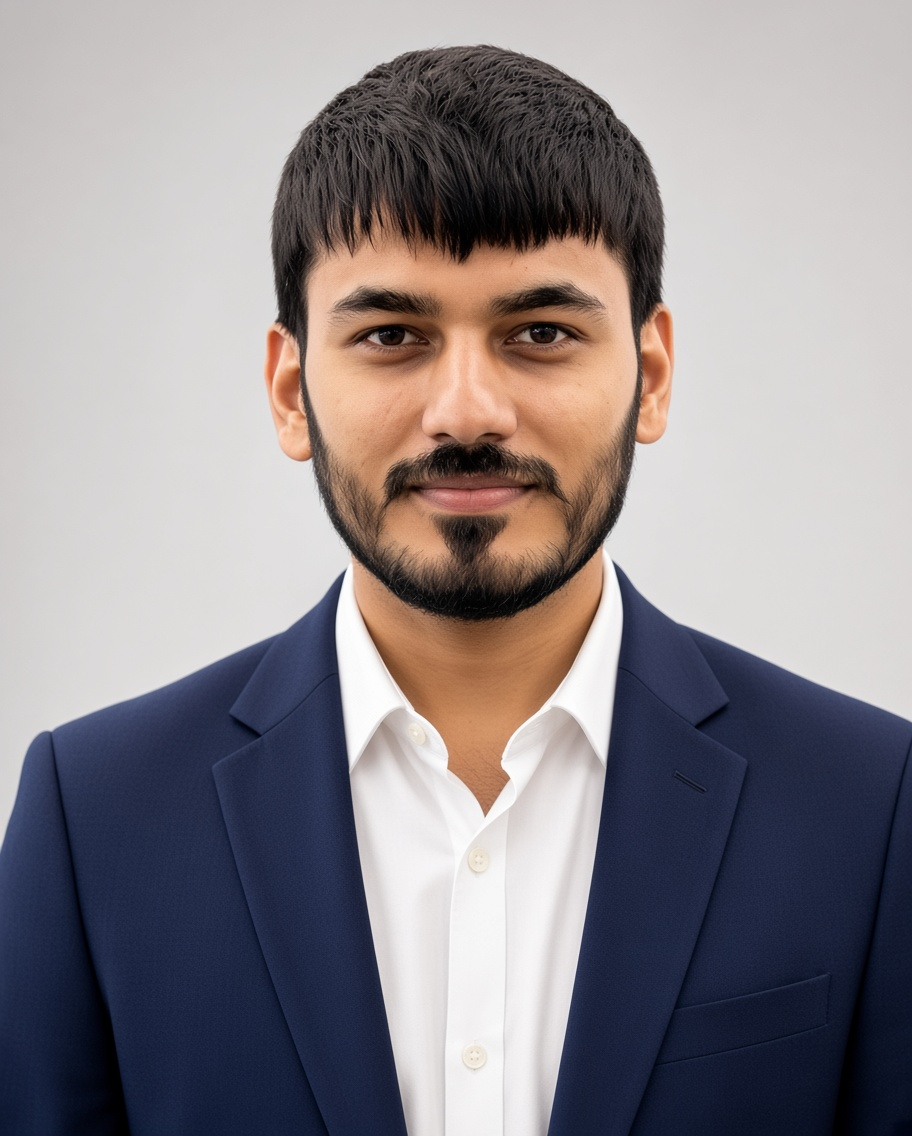
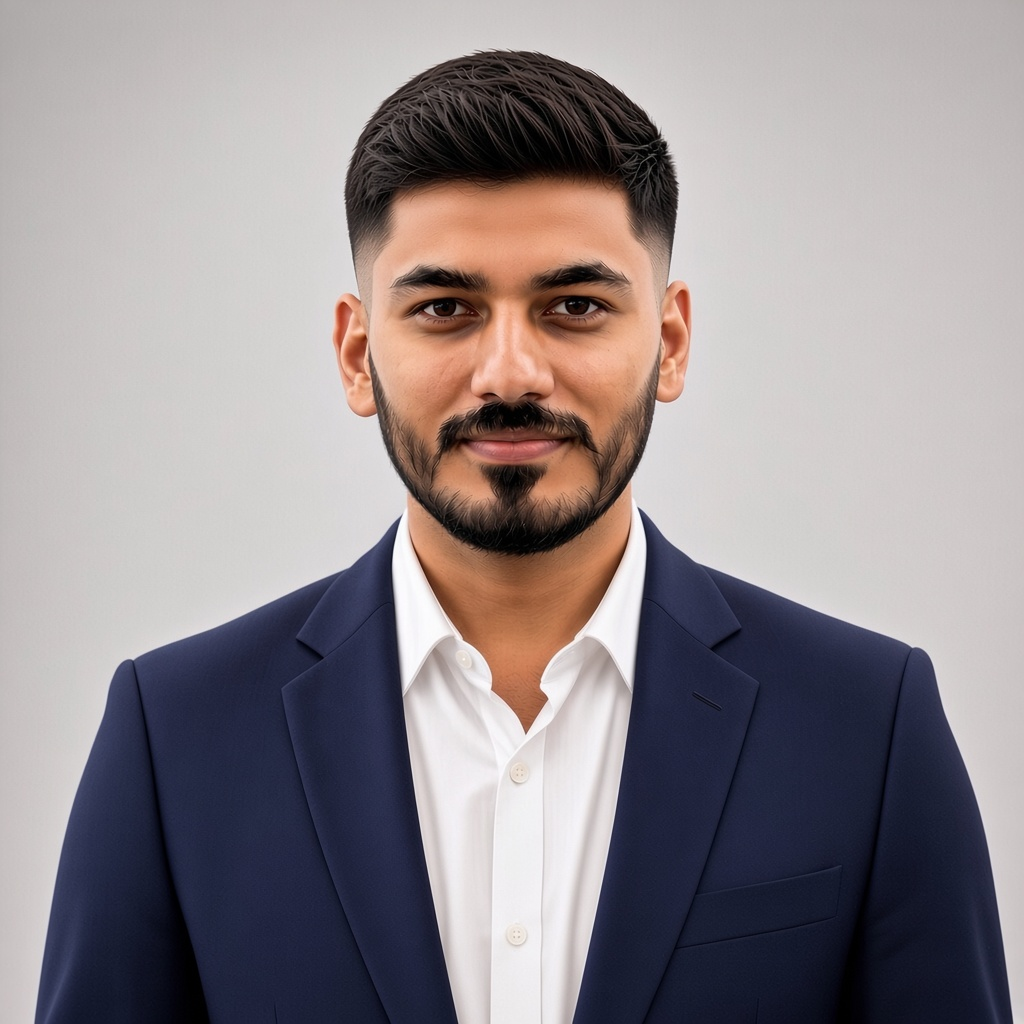
Update profile photo and portfolio content

diff --git a/src/components/Hero.jsx b/src/components/Hero.jsx
@@ -129,7 +129,6 @@ export default function Hero() {
               aria-hidden="true"
             />
             <div className="relative h-52 w-52 overflow-hidden rounded-full border border-navy-100 bg-white shadow-card dark:border-navy-800 dark:bg-navy-900 md:h-64 md:w-64">
-              {/* TODO: public/profile.jpg — swap for real photo */}
               {imgError ? (
                 <div className="flex h-full w-full items-center justify-center bg-navy-600 font-display text-4xl font-bold text-white">
                   {initials}
@@ -139,7 +138,7 @@ export default function Hero() {
                   src={photoHref}
                   alt={`${meta.name} profile photo`}
                   onError={() => setImgError(true)}
-                  
+                  className="h-full w-full object-cover object-center"
                 />
               )}
             </div>

diff --git a/src/data/portfolio.js b/src/data/portfolio.js
@@ -28,7 +28,7 @@ export const portfolio = {
     github: 'https://github.com/Mirzaalibaig077',
     tagline:
       'Building production-ready web apps and AI-powered systems with Python, FastAPI and the MERN stack.',
-    photo: 'profile.jpg',
+    photo: 'Profile.jpg',
     resume: 'Mirza_Ali_Resume.pdf', // TODO: replace public/Mirza_Ali_Resume.pdf with your real CV
   },
 

diff --git a/README.md b/README.md
@@ -74,10 +74,10 @@ meta: { ..., showPhone: false } // set to true to show your phone in Contact
 
 ## Replacing the profile photo
 
-1. Drop your image into `public/` (e.g. `public/profile.jpg`).
-2. In `portfolio.js` set `meta.photo: 'profile.jpg'`.
+1. Drop your image into `public/` (e.g. `public/Profile.jpg`).
+2. In `portfolio.js` set `meta.photo` to the exact filename, including capitalization.
 
-The current `public/profile.svg` is a placeholder monogram. If the photo file fails to load, the Hero automatically shows an initials avatar.
+The current profile photo is `public/Profile.jpg`. If the photo file fails to load, the Hero automatically shows an initials avatar.
 
 ## Replacing the CV
 
